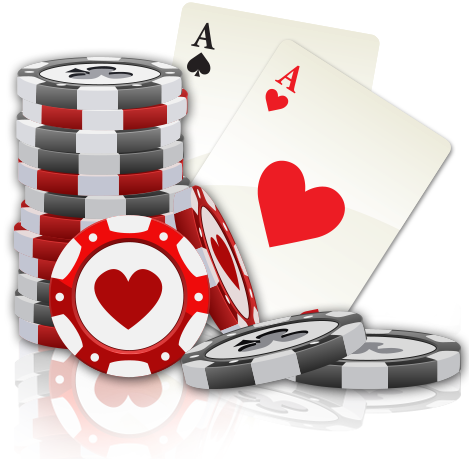
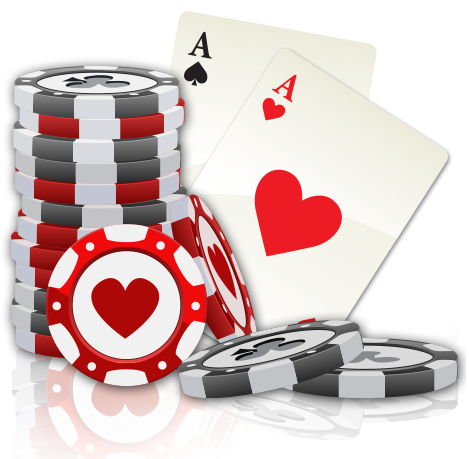
img added anf modified + some services updated

diff --git a/css/guest-posting.css b/css/guest-posting.css
@@ -115,7 +115,7 @@
     color: var(--mustard);
 }
 .best-blogs-best-result-main-p {
-    font-size: 1rem;
+    font-size: 1.2rem;
     font-weight: 400;
     line-height: 1.5em;
     text-align: justify;
@@ -200,8 +200,8 @@
 }
 
 .pricing-bo-p1 {
-    font-size: 1.1rem;
-    font-weight: 400;
+    font-size: 1.2rem;
+    font-weight: 500;
     color: var(--black);
 }
 /* -------------------------------- */

diff --git a/css/white-label-link-building.css b/css/white-label-link-building.css
@@ -170,7 +170,7 @@
     color: var(--black);
 }
 .pricing-bo-p1 {
-    font-size: 1.1rem;
+    font-size: 1.2rem;
     font-weight: 500;
     color: var(--black);
 }
@@ -186,7 +186,7 @@
     }
 
     .white-lebel-main-p {
-        font-weight: 300;
+        font-weight: 400;
         font-size: 1.5rem;
     }
 

diff --git a/css/casino-backlinks.css b/css/casino-backlinks.css
@@ -140,8 +140,8 @@
 }
 
 .pricing-bo-p1 {
-    font-size: 1.1rem;
-    font-weight: 300;
+    font-size: 1.2rem;
+    font-weight: 500;
 }
 
 /* .price-table {

diff --git a/css/managed-link-building.css b/css/managed-link-building.css
@@ -251,7 +251,7 @@
 }
 
 .pricing-bo-p1 {
-    font-size: 1.1rem;
+    font-size: 1.2rem;
     font-weight: 500;
     color: var(--black);
 }

diff --git a/casino-backlinks.php b/casino-backlinks.php
@@ -180,7 +180,7 @@ Online Gaming Link Building,Online Gaming And Casino Link Building
             </div>
             <div class="col-lg-6 col-md-6 m-auto">
                 <div class="text-center">
-                    <img src="./images/freepik-img/casino-img-3.jpg" class=" w-100  mb-4 " alt="">
+                    <img src="./images/freepik-img/casino-img-3.png" class=" w-100  mb-4 " alt="">
                 </div>
             </div>
         </div>
@@ -195,8 +195,8 @@ Online Gaming Link Building,Online Gaming And Casino Link Building
     <section class="my-sm-5 my-2 ">
         <h1 class="text-center pricing-bo-h1 mb-3">Casino Backlinks Pricing
         </h1>
-        <p class="text-center pricing-bo-p1 mb-3">We offer blogger outreach links categorised as <br> per DA,
-            DR, or organic traffic. Below is the pricing <br> for All 3 models.</p>
+        <p class="text-center pricing-bo-p1 mb-3">We offer blogger outreach links categorised as per DA,
+            DR, or organic traffic. Below is the pricing  for All 3 models.</p>
 
         <?php require_once "partials/pricing-cards.php"; ?>
     </section>

diff --git a/guest-posting.php b/guest-posting.php
@@ -151,8 +151,8 @@ require_once ROOT_DIR."/includes/package-submission.inc.php";
     <section class="mt-5">
         <h1 class="text-center pricing-bo-h1 mb-3 mt-5 px-2">Guest posting pricing
         </h1>
-        <p class="text-center pricing-bo-p1 mb-3">We offer blogger outreach links categorised as <br> per DA,
-            DR, or organic traffic. Below is the pricing <br> for All 3 models.</p>
+        <p class="text-center pricing-bo-p1 mb-3">We offer blogger outreach links categorised as per DA,
+            DR, or organic traffic. Below is the pricing for All 3 models.</p>
 
         <?php require_once "partials/pricing-cards.php"; ?>
     </section>
